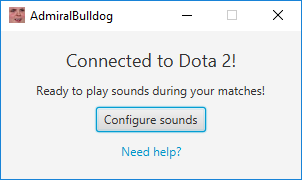
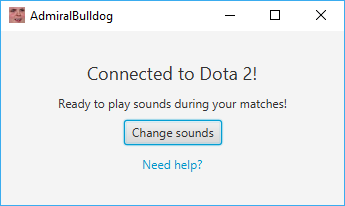
Update README

diff --git a/README.md b/README.md
@@ -3,28 +3,30 @@
 [![Build Status](https://travis-ci.org/MrBean355/dota2-integration.svg?branch=master)](https://travis-ci.org/MrBean355/dota2-integration)
 
 This is a little app that plays various [AdmiralBulldog](https://www.twitch.tv/admiralbulldog) sound bytes for things that happen in your Dota 2 matches: 
-- 15 seconds before the bounty runes spawn
+- shortly before the bounty runes spawn
 - your Hand of Midas comes off cooldown
-- you become affected by Smoke of Deceit
+- you get affected by Smoke of Deceit
 - you get a kill (sometimes)
 - you die (sometimes)
 - you get healed (sometimes)
+- you respawn
 - the match starts
 - your team wins
 - your team loses
 - randomly every 5 to 15 minutes
 
-You can easily configure which sound bytes are played for each of these events.
+You can toggle each of these events on and off to your liking.
+You can also easily choose which sounds are played for each of these events.
+It is designed to have the same selection of sounds as on AdmiralBulldog's official [PlaySounds](http://chatbot.admiralbulldog.live/playsounds) page.
 
-## Download
+## Installation
+
+#### Download
 1. Download the `.jar` file for the [latest release](https://github.com/MrBean355/dota2-integration/releases).
 2. Move the downloaded file to somewhere easy to access (e.g. on your desktop).
-3. Complete the **Setup** instructions below.
-4. Simply double-click the downloaded file to run the app!
-5. Note: a `config.json` file is created which stores your settings. If you more or delete this file, all your settings will be lost!  
 
-## Setup
-1. Close Dota 2.
+#### Dota 2 Setup
+1. Important: close Dota 2.
 2. Navigate to your Dota 2 installation folder (e.g. `C:\Program Files (x86)\Steam\steamapps\common\dota 2 beta`).
 3. Within there, navigate to `game\dota\cfg\gamestate_integration` (create any folders that don't exist).
 4. Create a new file called `gamestate_integration_bulldog.cfg`.
@@ -51,26 +53,32 @@ You can easily configure which sound bytes are played for each of these events.
     ```
 7. Save & close the file.
 
-## Testing Your Setup
-1. Open this app.
-2. Open Dota 2.
-3. Enter Hero Demo Mode.
-4. If you see this screen, you're ready to go:<br/>
-    ![Complete](docs/setup_complete.png)
-5. You can also trigger one of the events mentioned above to hear the sound (e.g. use Smoke of Deceit). 
-6. If the app doesn't show the above screen after entering Hero Demo Mode, carefully go through the setup steps again. Remember to close Dota 2!
+#### Test Your Setup
+1. Open the app by double-clicking the downloaded `.jar` file.
+2. Note that a `config.json` file is created which stores your settings. If you move or delete this file, all of your settings will be lost!
+3. Open Dota 2.
+4. Enter Hero Demo Mode.
+5. If you see this screen, you're ready to go:<br/>
+![Complete](docs/setup_complete.png)
+6. You can also trigger one of the events mentioned above to hear the sound (e.g. use Smoke of Deceit). 
+7. If the app doesn't show the above screen after entering Hero Demo Mode, carefully go through the setup steps again.
 
-## Choosing The Sounds
+## Choose The Sounds
 Each of the sound byte events can be configured to play your choice of sounds.
 For example, you can change the bounty rune sound byte from "ROONS!" to "Team Pepega".
 
 Simply start the app and click the "Change sounds" button.
 From there, you can enable or disable certain sound byte events by un-checking the corresponding checkbox.
 
+![Toggle sound bytes](docs/sound_byte_toggling.PNG)
+
 The volume can be adjusted using the slider. 
 
 Click the settings cog next to a sound byte event to choose which sounds can be played for that event.
-When that event happens, one of the selected sounds will be randomly chosen to be played.
+When that event happens, one of the selected sounds will get randomly chosen to be played.
+
+![Choose sounds](docs/choose_sounds.PNG)
+
 Remember to click "Save" when you're done choosing sounds!
 
 ## Updates
@@ -80,4 +88,4 @@ It's also likely that bugs get be fixed or new features are added. It's recommen
 The app will check for a newer version on startup, and display a message with a link to download the latest version.
 
 ## Contact
-Feel free to open an issue on this GitHub repository (preferred), or direct-message me (`@Mr_Bean`) on AdmiralBulldog's Discord server.
+Feel free to open an issue on this GitHub repository, or join my [Discord server](discord.gg/V6JzdJ5) and drop me a message (`@Mr_Bean`)!
